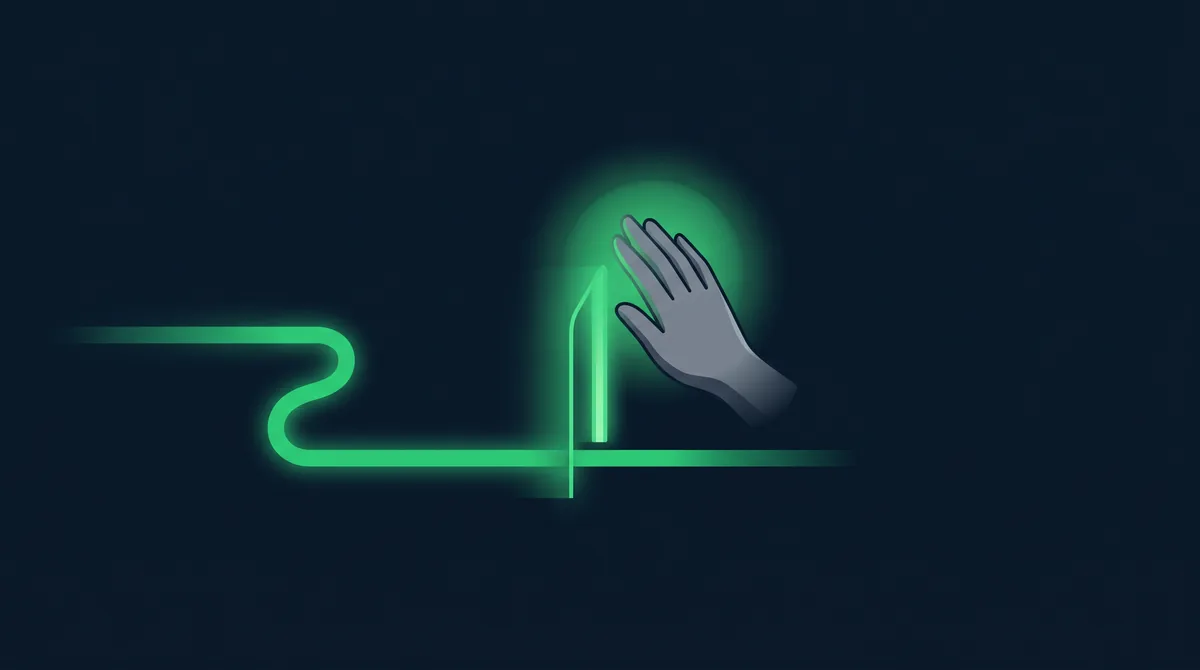
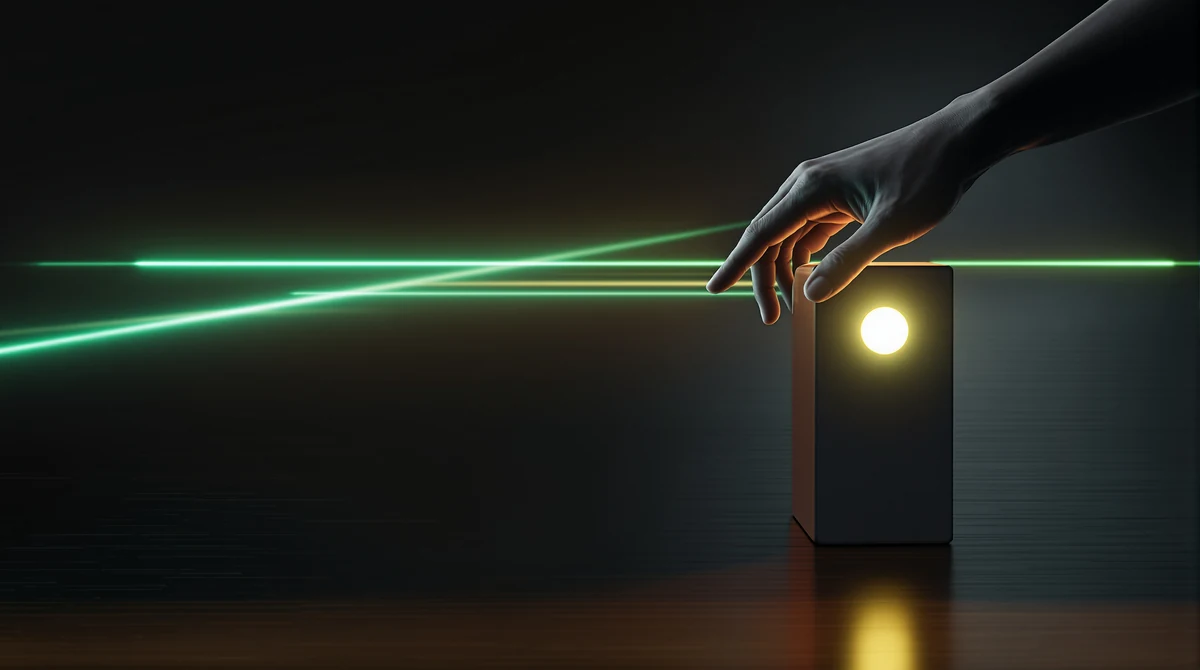
Brand review fixes: cinematic hero + Human Voice pass (PR #31)
Address Brand Manager requested-changes on "Teach Your Agent to Ask for Help":

- Hero: re-render in the #29/#30 dimensional cinematic 3D style (concept
  unchanged: green agent-path halting at a checkpoint where a human hand
  grants approval). Replaces the flat 2D vector/clip-art-hand render.
  1200x670 webp, deep-ink base, builder-green trail, controlled amber
  approval accent, no text/logos.
- Copy: Human Voice pass. Em dashes 9 -> 0 (Tier labels to periods, prose
  crutches rewritten). Contracted 20+ formal forms (it is/is not/cannot/
  do not) so it reads like Pratik talking.

tsc clean, 72/72 vitest pass.

diff --git a/src/data/blog-posts/teach-your-agent-to-ask-for-help.ts b/src/data/blog-posts/teach-your-agent-to-ask-for-help.ts
@@ -16,7 +16,7 @@ The demos that get shared are the ones where the agent does everything itself. N
 
 Then you put that same agent on real work, and the trait you were cheering for becomes the thing that scares you. An agent that never stops is an agent that will confidently do the one thing you would have told it not to.
 
-The skill that actually matters in production is the opposite of what the demos reward. It is not "how much can the agent do alone." It is "does the agent know when to stop and ask."
+The skill that actually matters in production is the opposite of what the demos reward. It's not "how much can the agent do alone." It's "does the agent know when to stop and ask."
 
 ## Autonomy Is Not the Prize
 
@@ -26,53 +26,53 @@ The teams running agents on things that matter have stopped believing that. In O
 
 That gap is the whole game. Detection tells you something went wrong. A well-placed pause stops it from going wrong in the first place.
 
-Regulators are already treating the pause as mandatory. The EU AI Act's oversight requirements, in force from August 2026, make demonstrable human intervention points a legal condition for high-risk autonomous systems, not a nice-to-have. "The model was very capable" is not a defense. "A human approved the consequential action" is.
+Regulators are already treating the pause as mandatory. The EU AI Act's oversight requirements, in force from August 2026, make demonstrable human intervention points a legal condition for high-risk autonomous systems, not a nice-to-have. "The model was very capable" isn't a defense. "A human approved the consequential action" is.
 
 ## Not Every Action Deserves the Same Trust
 
-The mistake is treating autonomy as a single dial you turn up or down for the whole agent. It is not one dial. It is a decision you make per action.
+The mistake is treating autonomy as a single dial you turn up or down for the whole agent. It's not one dial. It's a decision you make per action.
 
 A useful framework I keep coming back to sorts every action an agent can take into [four tiers by reversibility and blast radius](https://www.digitalapplied.com/blog/human-in-the-loop-escalation-design-ai-agents-2026):
 
-**Tier 1 — Read-only.** Queries, searches, analysis. Nothing changes in the outside world. Let the agent run. Gating these just manufactures friction and trains your reviewers to rubber-stamp.
+**Tier 1. Read-only.** Queries, searches, analysis. Nothing changes in the outside world. Let the agent run. Gating these just manufactures friction and trains your reviewers to rubber-stamp.
 
-**Tier 2 — Reversible.** Drafts, internal state, anything that can be cleanly undone. Let the agent act, but log everything so you can walk it back. This is where an [undo button](/blog/give-your-agent-an-undo-button) earns its keep.
+**Tier 2. Reversible.** Drafts, internal state, anything that can be cleanly undone. Let the agent act, but log everything so you can walk it back. This is where an [undo button](/blog/give-your-agent-an-undo-button) earns its keep.
 
-**Tier 3 — External or third-party.** Actions that touch systems you do not fully control. Route these to a review queue instead of firing them off. The cost of being wrong just left your building.
+**Tier 3. External or third-party.** Actions that touch systems you don't fully control. Route these to a review queue instead of firing them off. The cost of being wrong just left your building.
 
-**Tier 4 — High-risk and irreversible.** Production deploys, financial transactions, deleting data, changing permissions, sending external messages. These require a human approval, *regardless of how confident the agent claims to be.*
+**Tier 4. High-risk and irreversible.** Production deploys, financial transactions, deleting data, changing permissions, sending external messages. These require a human approval, *regardless of how confident the agent claims to be.*
 
-The last clause is the important one. The agent's confidence is not a signal you can trust at Tier 4, because confidence and correctness come apart exactly when the stakes are highest.
+The last clause is the important one. The agent's confidence isn't a signal you can trust at Tier 4, because confidence and correctness come apart exactly when the stakes are highest.
 
 ## The Agent's Confidence Is Not Evidence
 
 Here is the number that should end the "just let it decide" argument. Chain three agents together, each reporting 90 percent confidence but actually running around 75 percent accurate, and the miscalibration compounds. The real end-to-end reliability [collapses to roughly 42 percent](https://www.digitalapplied.com/blog/human-in-the-loop-escalation-design-ai-agents-2026).
 
-The agent will tell you it is 90 percent sure. The system is a coin flip. And it will report that 90 percent with exactly the same fluent, self-assured tone whether it is right or catastrophically wrong.
+The agent will tell you it's 90 percent sure. The system is a coin flip. And it will report that 90 percent with exactly the same fluent, self-assured tone whether it's right or catastrophically wrong.
 
-This is why "ask the agent how confident it is and gate on that" quietly fails. You are gating on a number the agent is not qualified to produce. The trigger for a pause cannot be the agent's *feeling* about the action. It has to be the *category* of the action. Deleting a database is Tier 4 whether the agent is nervous or serene about it.
+This is why "ask the agent how confident it is and gate on that" quietly fails. You're gating on a number the agent isn't qualified to produce. The trigger for a pause can't be the agent's *feeling* about the action. It has to be the *category* of the action. Deleting a database is Tier 4 whether the agent is nervous or serene about it.
 
 ## Design the Pause Like a Feature
 
-The good news is that a pause is not a design failure to apologize for. It is a feature to build well. The teams doing this treat the hand-off as a first-class part of the system, not an error path.
+The good news is that a pause isn't a design failure to apologize for. It's a feature to build well. The teams doing this treat the hand-off as a first-class part of the system, not an error path.
 
 A few principles that hold up:
 
 **Gate on categories, not vibes.** Pick the handful of action types that are genuinely irreversible or high-blast-radius and require a human every time. A widely used default: pause for production deploys, external communications, financial transactions above a set threshold (often as low as $100), data deletion, and privilege changes. Everything else runs.
 
-**Make the pause cheap to answer.** An approval request that dumps raw JSON on a reviewer is a bottleneck, not oversight. Give the human a plain-language summary: what the agent wants to do, what changes, whether it is reversible, and the estimated impact. The goal is a confident decision in seconds, not an archaeology project.
+**Make the pause cheap to answer.** An approval request that dumps raw JSON on a reviewer is a bottleneck, not oversight. Give the human a plain-language summary: what the agent wants to do, what changes, whether it's reversible, and the estimated impact. The goal is a confident decision in seconds, not an archaeology project.
 
 **Freeze the state, don't restart it.** When the agent pauses, it should serialize its state and resume cleanly on approval, not re-run from the top. Hash the proposed action at the moment of the pause and re-check it before executing, so nothing drifts during the approval window.
 
-**Set a timeout, and make it a kill switch.** An approval request that hangs forever is its own failure. Give it a window — thirty minutes is a common default — after which the action is cancelled, not silently executed. The safe default when a human never answers is *stop*, not *proceed*.
+**Set a timeout, and make it a kill switch.** An approval request that hangs forever is its own failure. Give it a window. Thirty minutes is a common default. After that the action is cancelled, not silently executed. The safe default when a human never answers is *stop*, not *proceed*.
 
 ## Asking for Help Is the Advanced Move
 
-There is a version of this that reads as a limitation: the agent is not good enough to be trusted, so we bolt a human onto the risky parts. That framing is backwards.
+There is a version of this that reads as a limitation: the agent isn't good enough to be trusted, so we bolt a human onto the risky parts. That framing is backwards.
 
-An agent that barrels through every decision is not more advanced. It is less aware. The genuinely capable behavior — the thing we struggle to get juniors on any team to do — is to recognize the edge of your own competence and escalate *before* you cross it, not after. An agent that stops at the right moment and says "this one is above my pay grade, confirm before I proceed" is showing more judgment, not less.
+An agent that barrels through every decision isn't more advanced. It's less aware. The genuinely capable behavior is the thing we struggle to get juniors to do: recognize the edge of your own competence and escalate *before* you cross it, not after. An agent that stops at the right moment and says "this one is above my pay grade, confirm before I proceed" is showing more judgment, not less.
 
-The counterargument is worth taking seriously. In April 2026, MIT Technology Review argued that human-in-the-loop oversight has quietly become an illusion in some systems, because a reviewer cannot actually verify what a model reasoned about internally before it acted. That is a real risk, and it is a warning about *lazy* oversight — the rubber-stamp, the ten-thousand-alert queue nobody reads. It is not an argument against oversight. It is an argument for the kind you can actually perform: few gates, high stakes, clear summaries, real decisions.
+The counterargument is worth taking seriously. In April 2026, MIT Technology Review argued that human-in-the-loop oversight has quietly become an illusion in some systems, because a reviewer can't actually verify what a model reasoned about internally before it acted. That's a real risk, and it's a warning about *lazy* oversight: the rubber-stamp, the ten-thousand-alert queue nobody reads. It isn't an argument against oversight. It's an argument for the kind you can actually perform: few gates, high stakes, clear summaries, real decisions.
 
 ## The Bottom Line
 